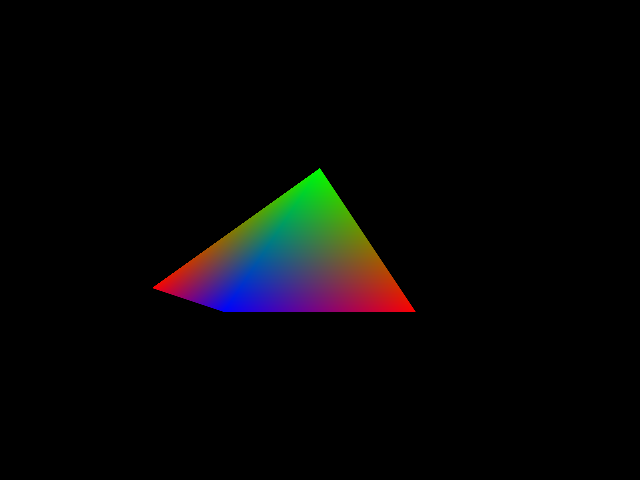
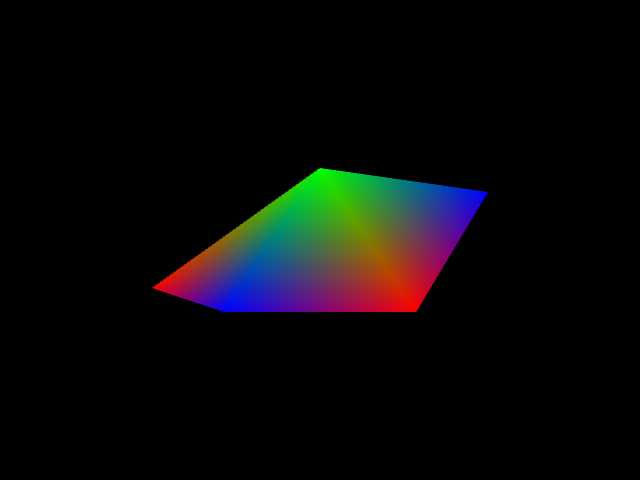
Fixed MSAA 2x seam artifact between triangle edges.

Changed region(s): [[0.5, 0.3438, 0.7812, 0.6562]]

diff --git a/rasterizer.py b/rasterizer.py
@@ -27,30 +27,29 @@ def validEdge (v0, v1):
 
 #Set up machines
 
-msaa : int = 2
+msaa : int = 2 
 w = 640
 h = 480
 projector = Projector(w, h, 1, 10) #width, height, near plane, far plane
 screen = np.zeros((h,w,3))
-coverage = np.zeros((h, w*msaa))
 
-vx1 = [-0.8, -1.4]
-vx2 = [0.8, -0.8]
-vx3 = [0.0, 0.0]
+vx1 = [-0.8, -1.4, 0.8]
+vy1 = [-0.6, -0.4, -0.6]
+z1  = [-2,   -2,   -2]
 
-vy1 = [-0.6, -0.4]
-vy2 = [-0.6, -0.6]
-vy3 = [0.6, 0.6]
+vx2 = [0.8, -0.8, 1.4]
+vy2 = [-0.6, -0.6, 0.4]
+z2  = [-2,   -2,   -2]
 
-z1 = [-2, -2]
-z2 = [-2, -2]
-z3 = [-2, -2]
+vx3 = [0.0, 0.0, 0.0]
+vy3 = [0.6, 0.6, 0.6]
+z3  = [-2,  -2,  -2]
 
-col1 = [[1,0,0], [0,0,1]]
-col2 = [[0,1,0], [0,1,0]]
-col3 = [[0,0,1], [1,0,0]]
+col1 = [[1,0,0], [0,0,1], [0,0,1]]
+col2 = [[0,1,0], [0,1,0], [0,1,0]]
+col3 = [[0,0,1], [1,0,0], [1,0,0]]
 
-for i in range(0,2):
+for i in range(0,len(vx1)):
 
     #Get primitives
 
@@ -83,55 +82,53 @@ for i in range(0,2):
             bx = j + 0.5
             by = y + 0.5
 
-            edge1 = edge(ss_tri.A, ss_tri.B, bx, by) / (2 * area) #Similar logic. Divide by 2 to get triangle area and then divide by area to normalize the result. The cross product above gives unnormalized barycentric coordinates. 
-            edge2 = edge(ss_tri.B, ss_tri.C, bx, by) / (2 * area)
-            edge3 = edge(ss_tri.C, ss_tri.A, bx, by) / (2 * area)
-
-            check1 = 0 if validEdge(ss_tri.A, ss_tri.B) else -1e-9
+            check1 = 0 if validEdge(ss_tri.A, ss_tri.B) else -1e-9 #adjust for subtle fp errors
             check2 = 0 if validEdge(ss_tri.B, ss_tri.C) else -1e-9
             check3 = 0 if validEdge(ss_tri.C, ss_tri.A) else -1e-9
 
-            if ((edge1 + check1 >= 0) and (edge2 + check2) >= 0 and (edge3 + check3) >= 0):
 
-                if (msaa == 2):
-                    x0 = j + 0.25
-                    x1 = j + 0.75
+            if (msaa == 2):
 
-                    y0 = y + 0.75
-                    y1 = y + 0.25
+                x0 = j + 0.25
+                y0 = y + 0.25
 
-                    e0_1 = edge(ss_tri.A, ss_tri.B, x0, y0) / (2 * area)
-                    e0_2 = edge(ss_tri.B, ss_tri.C, x0, y0) / (2 * area)
-                    e0_3 = edge(ss_tri.C, ss_tri.A, x0, y0) / (2 * area)
+                x1 = j + 0.75
+                y1 = y + 0.75
 
-                    e1_1 = edge(ss_tri.A, ss_tri.B, x1, y1) / (2 * area)
-                    e1_2 = edge(ss_tri.B, ss_tri.C, x1, y1) / (2 * area)
-                    e1_3 = edge(ss_tri.C, ss_tri.A, x1, y1) / (2 * area)
+                e0_1 = edge(ss_tri.A, ss_tri.B, x0, y0) / (2 * area)
+                e0_2 = edge(ss_tri.B, ss_tri.C, x0, y0) / (2 * area)
+                e0_3 = edge(ss_tri.C, ss_tri.A, x0, y0) / (2 * area)
 
-                    #check1 = 0
-                    #check2 = 0
-                    #check3 = 0
+                e1_1 = edge(ss_tri.A, ss_tri.B, x1, y1) / (2 * area)
+                e1_2 = edge(ss_tri.B, ss_tri.C, x1, y1) / (2 * area)
+                e1_3 = edge(ss_tri.C, ss_tri.A, x1, y1) / (2 * area)
 
-                    if ((e0_1 + check1 >= 0) and (e0_2 >= 0 + check2) and (e0_3 >= 0 + check3)):
-                        coverage[y][j + 0] = 1.0
+                cov0 = 0
+                cov1 = 0
 
-                    if ((e1_1 >= 0 + check1) and (e1_2 >= 0 + check2) and (e1_3 >= 0 + check1)):
-                        coverage[y][j + 1] = 1.0
-            
-            
-                if (msaa == 2):
-                    screen[y][j][0] = (((ss_tri.A.R * edge1 + ss_tri.B.R * edge2 + ss_tri.C.R * edge3) * coverage[y][j]) + ((ss_tri.A.R * edge1 + ss_tri.B.R * edge2 + ss_tri.C.R * edge3) * coverage[y][j + 1])) / 2
-                    screen[y][j][1] = (((ss_tri.A.G * edge1 + ss_tri.B.G * edge2 + ss_tri.C.G * edge3) * coverage[y][j]) + ((ss_tri.A.G * edge1 + ss_tri.B.G * edge2 + ss_tri.C.G * edge3) * coverage[y][j + 1])) / 2
-                    screen[y][j][2] = (((ss_tri.A.B * edge1 + ss_tri.B.B * edge2 + ss_tri.C.B * edge3) * coverage[y][j]) + ((ss_tri.A.B * edge1 + ss_tri.B.B * edge2 + ss_tri.C.B * edge3) * coverage[y][j + 1])) / 2
-                else:
+                if ((e0_1 + check1 >= 0) and (e0_2 >= 0 + check2) and (e0_3 >= 0 + check3)):
+                    cov0 = 1
+
+                if ((e1_1 >= 0 + check1) and (e1_2 >= 0 + check2) and (e1_3 >= 0 + check1)):
+                    cov1 = 1
+
+                if (cov0 or cov1):
+                    screen[y][j][0] += (((ss_tri.A.R * e0_1 + ss_tri.B.R * e0_2 + ss_tri.C.R * e0_3) * cov0) + ((ss_tri.A.R * e1_1 + ss_tri.B.R * e1_2 + ss_tri.C.R * e1_3) * cov1)) / 2
+                    screen[y][j][1] += (((ss_tri.A.G * e0_1 + ss_tri.B.G * e0_2 + ss_tri.C.G * e0_3) * cov0) + ((ss_tri.A.G * e1_1 + ss_tri.B.G * e1_2 + ss_tri.C.G * e1_3) * cov1)) / 2
+                    screen[y][j][2] += (((ss_tri.A.B * e0_1 + ss_tri.B.B * e0_2 + ss_tri.C.B * e0_3) * cov0) + ((ss_tri.A.B * e1_1 + ss_tri.B.B * e1_2 + ss_tri.C.B * e1_3) * cov1)) / 2
+
+            else:
+                edge1 = edge(ss_tri.A, ss_tri.B, bx, by) / (2 * area) #Similar logic. Divide by 2 to get triangle area and then divide by area to normalize the result. The cross product above gives unnormalized barycentric coordinates. 
+                edge2 = edge(ss_tri.B, ss_tri.C, bx, by) / (2 * area)
+                edge3 = edge(ss_tri.C, ss_tri.A, bx, by) / (2 * area)
+
+                if ((edge1 + check1 >= 0) and (edge2 + check2) >= 0 and (edge3 + check3) >= 0):
                     screen[y][j][0] = ss_tri.A.R * edge1 + ss_tri.B.R * edge2 + ss_tri.C.R * edge3
                     screen[y][j][1] = ss_tri.A.G * edge1 + ss_tri.B.G * edge2 + ss_tri.C.G * edge3
                     screen[y][j][2] = ss_tri.A.B * edge1 + ss_tri.B.B * edge2 + ss_tri.C.B * edge3
-
 plt.imshow(screen)
 plt.axis('off')
 plt.show()
-
 #Save image
 img_unit8 = (screen * 255).astype(np.uint8)
 img = Image.fromarray(img_unit8)
